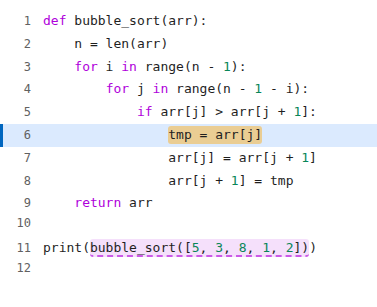
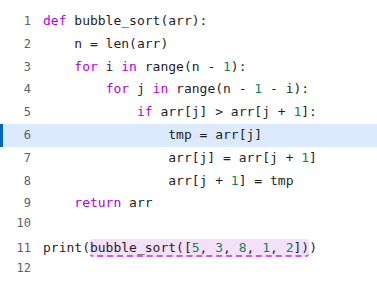
fix: コード表示のオレンジ（評価中の式）を式にだけ付ける（ADR-008）
Python の AST は文にも end を付けていたため、実行した直後（Program）や
for・if・def に止まったときに、ブロック全体がオレンジになっていた。
JS のパーサーと同じく、文には end を付けない。

- ADR-008 と例のテスト 2 件（直す前のコードで失敗することを確認）
- 全サンプル × 全タブの画面を直す前と比べ、変わったのは文のオレンジだけ
- マニュアルのスクリーンショットを撮り直した

Changed region(s): [[0.4377, 0.4104, 0.7003, 0.4691]]

diff --git a/src/engine/parse.js b/src/engine/parse.js
@@ -209,6 +209,14 @@ function unescape(body, isRaw) {
 
 const COMPARE_OPS = new Set(['<', '>', '<=', '>=', '==', '!=', 'in', 'not in', 'is', 'is not']);
 
+/** 文（と Program・except 節）のノード型。end を付けない（ADR-008） */
+const STATEMENT_TYPES = new Set([
+  'Program', 'BlockStatement', 'ExpressionStatement', 'IfStatement', 'WhileStatement', 'ForOfStatement',
+  'FunctionDeclaration', 'ClassDeclaration', 'ReturnStatement', 'EmptyStatement', 'BreakStatement',
+  'ContinueStatement', 'GlobalStatement', 'TryStatement', 'ExceptHandler', 'ImportStatement',
+  'ImportFromStatement', 'RaiseStatement', 'DeleteStatement', 'AssertStatement',
+]);
+
 /**
  * @param {string} src
  * @returns {object} Program ノード
@@ -230,7 +238,10 @@ export function parse(src) {
     for (let c = n.firstChild; c; c = c.nextSibling) if (c.name !== 'Comment') out.push(c);
     return out;
   };
-  const mk = (type, from, to, props) => ({ type, ...props, loc: pm.loc(from), end: pm.end(to), range: [from, to] });
+  // end（式の終わりの位置）は式にだけ付ける。JS のパーサーと同じく、文には付けない。
+  // コード表示は end のあるイベントの範囲をオレンジ（評価中の式）にするため、文にも付けると
+  // 実行した直後（Program）や if・for・def に止まったときに、ブロック全体がオレンジになる（ADR-008）
+  const mk = (type, from, to, props) => ({ type, ...props, loc: pm.loc(from), end: STATEMENT_TYPES.has(type) ? null : pm.end(to), range: [from, to] });
   const unsupported = (what, n) => { const p = pm.loc(n.from); throw new PyUnsupportedError(what, p.line, p.column); };
   const isTok = (n, ...names) => names.includes(n.name);
 

diff --git a/docs/adr/ADR-008-expression-highlight-only-for-expressions.md b/docs/adr/ADR-008-expression-highlight-only-for-expressions.md
@@ -1,0 +1,46 @@
+# ADR-008: コード表示のオレンジ（評価中の式）は式にだけ付ける
+
+- ステータス: 採用
+- 日付: 2026-11-25
+
+## 背景
+
+コード表示では、評価中の式の範囲がオレンジの背景で表示される（JSVisualizer の `views/code-view`）。コード表示は、トレースのイベントに式の終わりの位置（`end`）があれば、`loc`〜`end` の範囲をオレンジにする。
+
+JS のパーサー（JSInterpreter）は、`end` を式にだけ付けて、文には付けない。一方、Python の AST 変換（`src/engine/parse.js`）は、文を含むすべてのノードに `end` を付けていた。そのため Python 版では次の問題が起きていた。
+
+- 実行した直後（ステップ 0、`Program` に入ったところ）に、ソース全体がオレンジになる
+- `for` 文・`if` 文・`def`・`class` などに止まると、そのブロック全体がオレンジになる
+
+公開した直後（2026-11-25）に、利用者の確認で見つかった。
+
+## 利用者に見える例
+
+テストは `tests/adr-examples.test.js`（ADR-008 例1・2）。2 件とも、直す前のコードで失敗することを確かめた。
+
+次のプログラムを実行する。
+
+```python
+total = 0
+for i in range(2):
+    if i > 0:
+        total += i
+print(total)
+```
+
+1. 実行した直後は、コードにオレンジの範囲が表示されない（以前は 1〜5 行目のすべてがオレンジになっていた）
+2. 式の単位で最後まで進めても、オレンジになるのは `range(2)`・`i > 0`・`total += i`・`print(total)` のような式だけになる。`for` 文や `if` 文で止まっても、ブロック全体（2〜4 行目や 3〜4 行目）はオレンジにならない
+
+## 決定
+
+- Python の AST でも、JS のパーサーと同じく、文（と `Program`・`except` 節）のノードには `end` を付けない（`STATEMENT_TYPES`）。式のノードには、これまでどおり付ける
+- `for` のループ変数（`LoopBinding`）と `except` の行（`ExceptBinding`）のイベントは、これまでどおり `end` を持つ。ループ変数の名前、`except ZeroDivisionError as e` の部分がオレンジになる（ADR-003・ADR-006）
+- フロントエンド（JSVisualizer）は変えない
+
+## 結果
+
+- 文で止まったときのコード表示が、JS 版と同じになった。今どの行にいるかは、行のハイライト（青）で示される
+- 全 27 サンプル × 全タブ × 5 位置（実行直後・「人」5 回・「式」3 回・「人」15 回・末尾）× ビューとコード表示（とページのエラー）の計 3,267 件の画面の HTML を、直す前と比べた（`scripts/capture-js-dom.mjs` を Python 版のビルド用に変えたもの）
+  - ビュー：違いはなかった（実行トレースで 3 件違ったが、配列の図を遅れて描くタイミングによる揺れで、直す前のビルドを 2 回記録しても同じように違った）
+  - コード表示：492 件で違い、すべて文で止まったときのオレンジ（1〜24 行分）が消えたもの。オレンジ以外の表示と、式で止まったときのオレンジは変わらない
+- マニュアルのスクリーンショットを撮り直した。`code-highlight-line`・`screen-run` は `tmp = arr[j]` の文で止まった画面なので、その文のオレンジがなくなった（説明しているのは行の青と呼び出し元の紫なので、説明文は変えない）

diff --git a/CLAUDE.md b/CLAUDE.md
@@ -17,7 +17,7 @@
 
 [BhvVisualizer](../BhvVisualizer)（学習ログの収集・分析）と組み合わせて授業で使えるようにすることも目標です。
 
-**現在のステータス**: Phase 0〜5 完了・公開済み（2026-11-25）。リポジトリも公開し、`main` への push で GitHub Pages（https://tntetsu.github.io/PyVisualizer/）に公開される（[docs/development-plan.md](docs/development-plan.md) 6 節の決定 5・6.2 節）。報告書は [docs/phase0-report.md](docs/phase0-report.md)〜[docs/phase5-report.md](docs/phase5-report.md)。パーサーは Lezer で確定。共通コア `js-interpreter/core` は JSInterpreter の作業ブランチ `feature/interp-core`（JSInterpreter の ADR-015）。フロントエンドは JSVisualizer の作業ブランチ `feature/multilang` の言語プロファイル（JSVisualizer の ADR-055）を使い、Python のプロファイルは [src/lang/python.js](src/lang/python.js)（[ADR-004](docs/adr/ADR-004-python-display-in-frontend.md)）。Python の値の表現は [ADR-002](docs/adr/ADR-002-python-value-representation.md)、トレースへの追加は [ADR-003](docs/adr/ADR-003-python-trace-additions.md)、Phase 5 で入れた機能は ADR-005〜007。方針：リポジトリ構成は [ADR-001](docs/adr/ADR-001-repository-structure.md)、JSInterpreter・JSVisualizer への変更の main へのマージは学期後（2027年2月以降）、BhvVisualizer 連携（Phase 6）は後回し。
+**現在のステータス**: Phase 0〜5 完了・公開済み（2026-11-25）。リポジトリも公開し、`main` への push で GitHub Pages（https://tntetsu.github.io/PyVisualizer/）に公開される（[docs/development-plan.md](docs/development-plan.md) 6 節の決定 5・6.2 節）。報告書は [docs/phase0-report.md](docs/phase0-report.md)〜[docs/phase5-report.md](docs/phase5-report.md)。パーサーは Lezer で確定。共通コア `js-interpreter/core` は JSInterpreter の作業ブランチ `feature/interp-core`（JSInterpreter の ADR-015）。フロントエンドは JSVisualizer の作業ブランチ `feature/multilang` の言語プロファイル（JSVisualizer の ADR-055）を使い、Python のプロファイルは [src/lang/python.js](src/lang/python.js)（[ADR-004](docs/adr/ADR-004-python-display-in-frontend.md)）。Python の値の表現は [ADR-002](docs/adr/ADR-002-python-value-representation.md)、トレースへの追加は [ADR-003](docs/adr/ADR-003-python-trace-additions.md)、Phase 5 で入れた機能は ADR-005〜007、公開後の修正は ADR-008（コード表示のオレンジを式にだけ付ける）。方針：リポジトリ構成は [ADR-001](docs/adr/ADR-001-repository-structure.md)、JSInterpreter・JSVisualizer への変更の main へのマージは学期後（2027年2月以降）、BhvVisualizer 連携（Phase 6）は後回し。
 
 ## 関連リポジトリ
 
